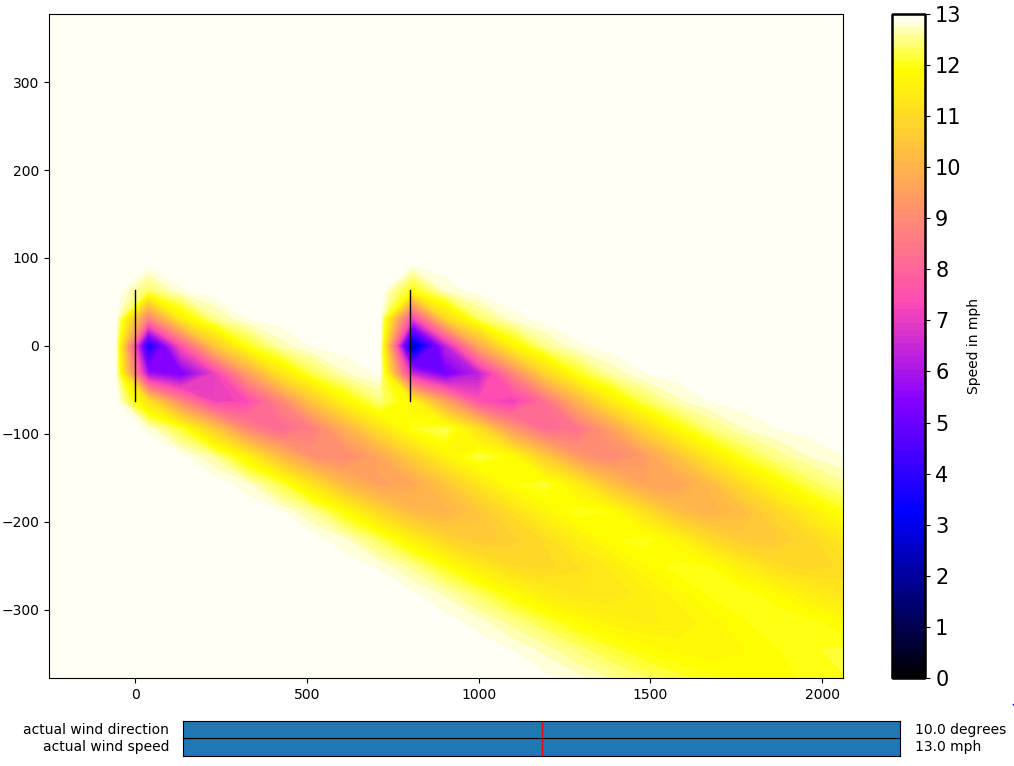
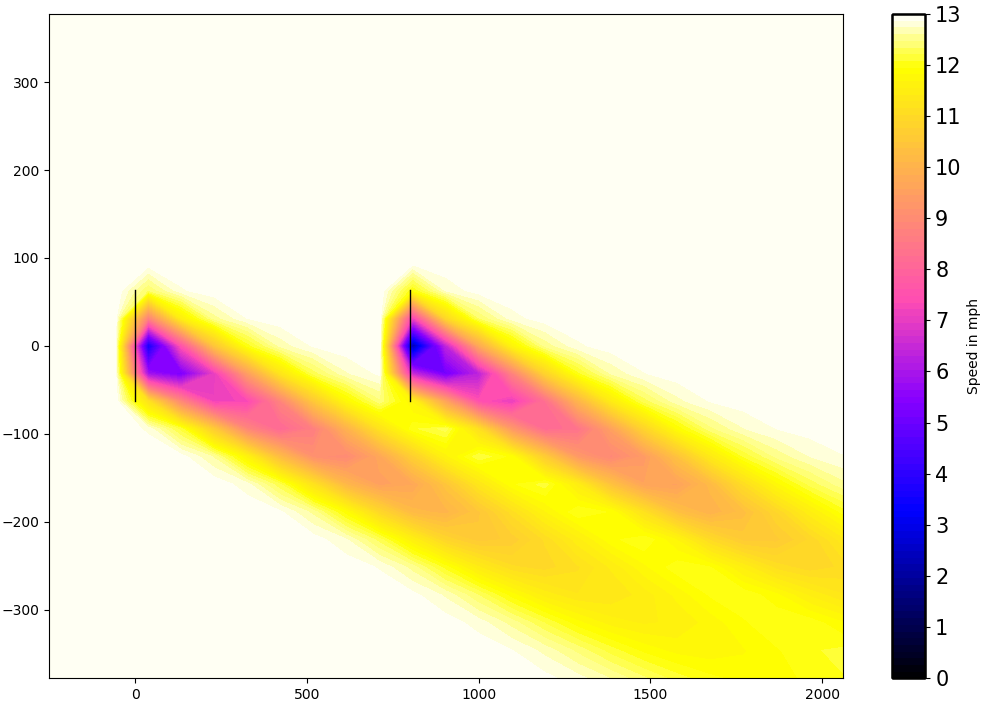
fix plot labels

diff --git a/visualization_manager_DJ.py b/visualization_manager_DJ.py
@@ -448,7 +448,7 @@ class VisualizationManager():
                             self.params.Srange[0],
                             self.params.Srange[1],
                             valinit=Espeed)
-        slider_spd.valtext.set_text('{}'.format(Espeed) + ' mph')
+        slider_spd.valtext.set_text('{}'.format(Espeed) + ' m/s')
         # set up the direction slider
         slider_dir = Slider(ax_dir,
                             'actual wind direction',
@@ -474,7 +474,7 @@ class VisualizationManager():
             # set the new speed value
             spdvalue = self.params.Srange[0] + idx * self.params.Srange[2]
             # put the speed value in the slider text
-            slider_spd.valtext.set_text('{}'.format(spdvalue) + ' mph')
+            slider_spd.valtext.set_text('{}'.format(spdvalue) + ' m/s')
             # set the direction index based on the slider value
             idy = int(round((slider_dir.val -
                              self.params.Drange[0]) /
@@ -503,7 +503,7 @@ class VisualizationManager():
                 self._cbr.set_clim(vmin=errMax*-1,vmax=errMax)
                 self._cbr.set_ticks(w)
                 self._cbr.set_cmap('seismic')
-                self._cbr.set_label('Error in mph')
+                self._cbr.set_label('Error in m/s')
                 self._cbr.draw_all()
             else:
                 # plot the u_field data
@@ -514,7 +514,7 @@ class VisualizationManager():
                 self._cbr.set_clim(vmin=spdMin,vmax=spdMax)
                 self._cbr.set_ticks(W)
                 self._cbr.set_cmap('gnuplot2')
-                self._cbr.set_label('Speed in mph')
+                self._cbr.set_label('Speed in m/s')
                 self._cbr.draw_all()
             # put the title back up
             plt.suptitle(Tstr, fontsize=fontsize)
